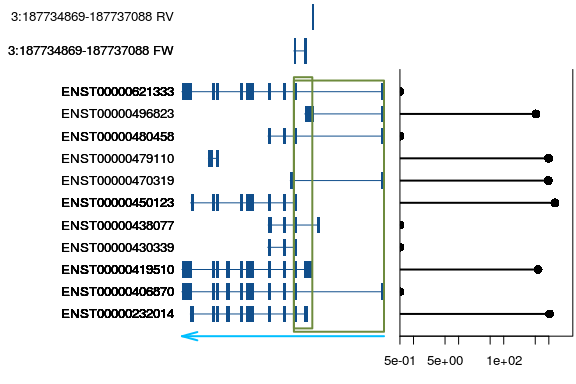
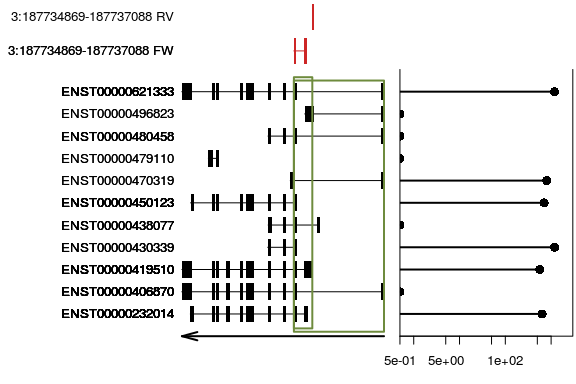
vgn colors

diff --git a/doc/plot-transcripts.md b/doc/plot-transcripts.md
@@ -91,12 +91,12 @@ tail(counts)
 ```
 
     ##                 id count
-    ## 6  ENST00000450123  1361
-    ## 7  ENST00000470319   976
-    ## 8  ENST00000479110   985
+    ## 6  ENST00000450123   705
+    ## 7  ENST00000470319   800
+    ## 8  ENST00000479110     0
     ## 9  ENST00000480458     0
-    ## 10 ENST00000496823   514
-    ## 11 ENST00000621333     0
+    ## 10 ENST00000496823     0
+    ## 11 ENST00000621333  1185
 
 The workflow entry point
 ------------------------
@@ -122,7 +122,8 @@ bcl6EnsId
 ``` r
 plotCirc(circGenes = bcl6EnsId,
          circData = circData,
-         counts = counts)
+         counts = counts, 
+         opts = list(normalise = FALSE))
 ```
 
 ![](plot-transcripts_files/figure-markdown_github/unnamed-chunk-9-1.png)
